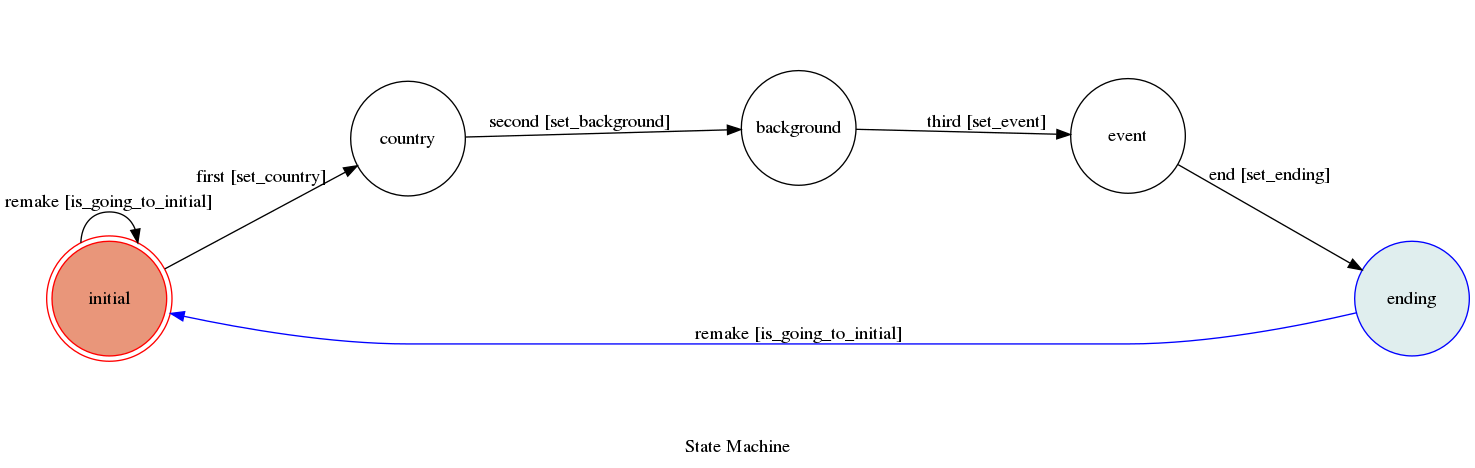
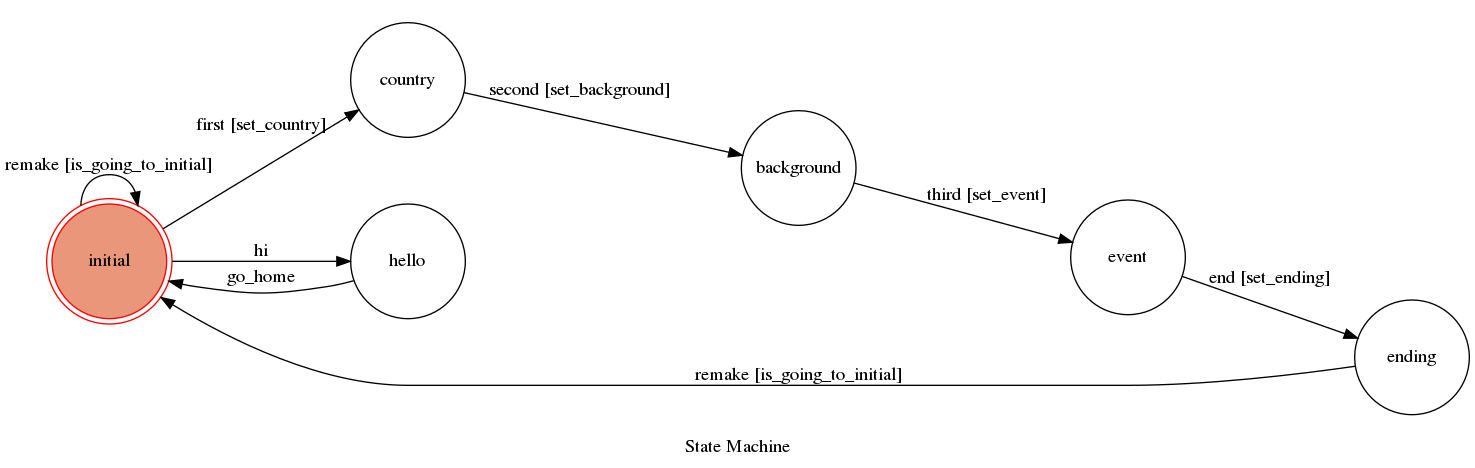
A little bug

diff --git a/fsm.py b/fsm.py
@@ -1,51 +1,81 @@
 from transitions.extensions import GraphMachine
 
-from utils import send_text_message, make_message
+from utils import send_text_message, make_message, send_image_url, send_button_message
 from life import country, background
-from life_data import Country, Background, Event, Work, Ending
+from life_data import Country, Background, Event, Ending
+from material import life_remake, people_img
 import time
+
 
 class TocMachine(GraphMachine):
     my_life = []#save the life data
     life_data = []#save the life parameter
+    #life data: [country, background, ending]
     def __init__(self, **machine_configs):
         self.machine = GraphMachine(
             model=self,
             **machine_configs
         )
-    #go to country state
     def set_country(self, event):
         sender_id = event['sender']['id']
-        if event.get("message"):
+        if event['message'].get("text"):
             text = event['message']['text']
             if text.lower() == 'start':
                 return True
             else:
+                send_image_url(sender_id, life_remake[0])
                 send_text_message(sender_id, "請輸入 start 開始你的人生>_<")
-        return False
+        else:
+            send_text_message(sender_id, "Sorry，只能接收文字，可以說嗨跟我打招呼")
+            return False
+   
+    #def say_hello(self, event):
+    #    sender_id = event['sender']['id']
+    #    if event['message'].get("text"):
+    #        text = event['message']['text']
+    #        if text == '嗨' or text == 'hi' or text == 'hello':
+    #            return True
+    #        else:
+    #            return False    
+    #    else:
+    #        return False        
 
     #go to background state
     def set_background(self, event):
-        if event.get("message"):
-            text = event['message']['text']
+        sender_id = event['sender']['id']
+        if event.get('postback'):
+            text = event['postback']['payload']
             return text.lower() == 'go'
-        return False
+        else:
+            send_text_message(sender_id, "Sorry，請按按鈕")
+            return False
 
     def is_going_to_initial(self, event):
-        if event.get("message"):
+        sender_id = event['sender']['id']
+        if event['message'].get("text"):
             text = event["message"]['text']
-            return text.lower() == 'remake'
-        return False
+            if text.lower() == 'remake':
+                return True
+            else:
+                send_text_message(sender_id, '想重刷的話就remake喔')
+                return False
+        else:
+            send_text_message(sender_id, '想重刷的話就remake喔')
+            return False
 
     def set_event(self, event):
-        if event.get("message"):
-            text = event['message']['text']
+        sender_id = event['sender']['id']
+        if event.get('postback'):
+            text = event['postback']['payload']
             return text.lower() == 'go'
-        return False
+        else:
+            send_text_message(sender_id, "Sorry，請按按鈕")
+            return False
     
     def set_ending(self, event):
-        if event.get("message"):
-            text = event['message']['text']
+        sender_id = event['sender']['id']
+        if event.get('postback'):
+            text = event['postback']['payload']
             if int(text):
                 e = int(text)
                 if e < len(Ending[self.life_data[0]][self.life_data[1]]):
@@ -55,18 +85,30 @@ class TocMachine(GraphMachine):
                     return False
             else:
                 return False
+        else:
+            send_text_message(sender_id, "Sorry，目前只能接收文字")
+            return False        
+    
+    def on_enter_hello(self, event):
+        sender_id = event['sender']['id']
+        send_text_message(sender_id, "你好阿，旅行者")
+        self.go_home(event)
+
 
     def on_enter_country(self, event):
-        print("your country is set")
+        #print("your country is set")
         sender_id = event['sender']['id']
         c = country()
         self.my_life.append(c)
         self.life_data.append(Country.index(c))
-        #print("country:")
-        #print(self.my_life[0])
+        buttons = [{
+            'type': 'postback',
+            'title': 'go',
+            'payload': 'go'
+        }]
         send_text_message(sender_id, "OH！ 你的首抽為\n" + self.my_life[0] + "人")
-        send_text_message(sender_id, "輸入 go 看看你生在什麼家庭吧")
-        
+        #send_text_message(sender_id, "輸入 go 看看你生在什麼家庭吧")
+        send_button_message(sender_id, '按下go，進入下一階段', buttons)
 
 #    def on_exit_state1(self):
 #        print('Leaving state1')
@@ -74,14 +116,17 @@ class TocMachine(GraphMachine):
     def on_enter_background(self, event):
         print("your background is set")        
         sender_id = event['sender']['id']
-
-        b = background(self.life_data[0])
-        #print('life data[0] = \n')
-        #print(self.life_data[0])
+        b = background(self.life_data[0])#random
         self.my_life.append(b)
         self.life_data.append(Background[self.life_data[0]].index(b))
+        buttons = [{
+            'type': 'postback',
+            'title': 'go',
+            'payload': 'go'
+        }]
         send_text_message(sender_id, "家庭背景：\n" + self.my_life[1])
-        send_text_message(sender_id, "嗯嗯，該說是幸運還是不幸呢\n輸入 go 進入下一階段")
+        send_image_url(sender_id, people_img[Background[self.life_data[0]].index(b)])
+        send_button_message(sender_id, '按下go，進入下一階段', buttons)
 
 #    def on_exit_state2(self):
 #        print('Leaving state2')
@@ -89,23 +134,68 @@ class TocMachine(GraphMachine):
     def on_enter_event(self, event):
         print("event occur!")
         sender_id = event['sender']['id']
-        #print('life data[1] = \n')
-        #print(self.life_data[1])
-        send_text_message(sender_id, Event[self.life_data[0]][self.life_data[1]])
-        
+        buttons = []
+        if self.life_data[1] == 0:
+            buttons = [{
+            'type': 'postback',
+            'title': '繼承家業',
+            'payload': '0'
+            },
+            {
+                'type': 'postback',
+                'title': '工作看看',
+                'payload': '1'
+            },
+            {
+                'type': 'postback',
+                'title': '創業',
+                'payload': '2'
+            }]
+        elif self.life_data[1] == 1:
+            buttons = [{
+            'type': 'postback',
+            'title': '找工作',
+            'payload': '0'
+            },
+            {
+                'type': 'postback',
+                'title': '啃老',
+                'payload': '1'
+            },
+            {
+                'type': 'postback',
+                'title': '考公職',
+                'payload': '2'
+            }]
+        elif self.life_data[1] == 2:
+            buttons = [{
+            'type': 'postback',
+            'title': '找工作',
+            'payload': '0'
+            },
+            {
+                'type': 'postback',
+                'title': '跳陣頭',
+                'payload': '1'
+            },
+            {
+                'type': 'postback',
+                'title': '簽下去',
+                'payload': '2'
+            }]    
+        #send_text_message(sender_id, Event[self.life_data[0]][self.life_data[1]])
+        send_button_message(sender_id, Event[self.life_data[0]][self.life_data[1]], buttons)
 
     def on_enter_initial(self, event):
-        print("I'm going initial")
         self.life_data.clear()
         self.my_life.clear()
         sender_id = event['sender']['id']
         send_text_message(sender_id, "想重刷是吧？那就輸入 start 重刷你的人生首抽")
 
     def on_enter_ending(self, event):
-        print('is ending!') 
         sender_id = event['sender']['id']
         send_text_message(sender_id, Ending[self.life_data[0]][self.life_data[1]][self.life_data[2]]) 
-        send_text_message(sender_id, '想重刷的話就remake喔')      
+        #send_text_message(sender_id, '想重刷的話就remake喔')
 
 #    def on_exit_user(self):
 #        print('Leaving user')

diff --git a/life_data.py b/life_data.py
@@ -4,12 +4,18 @@ Background = [['老爸是大老闆，上下學專車接送，家裡有3個傭人
             '沒什麼好說，總之是個還過得去的一般家庭', 
             '不知道下一餐在哪裡，多災多難的貧困家庭']
 ]
-Work = ['inherit', 'work', 'lazy', 'create', 'work', 'lazy', 'exam', 'work', 'exam', 'bad']
-Event = [['光陰似箭，歲月如梭，身為富二代的你成年了，也到了決定人生方向的時候了\n\n自己決定吧\n1：繼承家業\n2：出去工作\n3：在家耍廢\n4：創業',
-        '時間過得真快，一眨眼就成年了，該替自己的未來打算了\n\n決定吧\n1：找工作\n2：啃老\n3：考公職',
-        '雖然以前常常餓肚子，但還是順利長大了，沒爸可靠的你下一步要怎走呢？\n\n想清楚吧\n1：找工作\n2：跳陣頭'],
+Event = [['光陰似箭，歲月如梭，身為富二代的你成年了，也到了決定人生方向的時候了\n\n自己決定吧',
+        '時間過得真快，一眨眼就成年了，該替自己的未來打算了\n\n決定吧',
+        '雖然以前常常餓肚子，但還是順利長大了，沒爸可靠的你下一步要怎走呢？\n想清楚吧'],
 ]
-Ending = [[['ending0', 'ending1', 'ending2', 'ending3'], ['ending4', 'ending5', 'ending6'], ['ending7', 'ending8','ending9']]
+Ending = [[['ending0', 
+        '剛開始真的很痛苦，以前的高級消費娛樂都不能做了，但回想起自己過去的人生，其實也算渾渾噩噩，於是開始利用時間充實自己，認識許多業界成功的人士，參與了許多課程，最後靠著3年的100萬積蓄，再加上老爸給的4900萬，買下台北精華區的人生第一棟房子\n『有夢最美，逐夢踏實』', 
+        'ending2'], 
+        ['ending3', 
+        '『啃老就要慢慢輕輕的啃才能長久』by 國動\n豪爽喔\n每天打game尻尻，時間一下就消磨掉了，吃家裡剩的，當家裡的廚餘桶，偶爾幫忙跑腿（找的錢還可以當零用錢），阿...斯...\n再...再讓我啃兩年...', 
+        'ending5'], 
+        ['ending6', 'ending7',
+        '『人生可以黑白，但千萬不能迷彩』，幹你娘如果回到四年前我一定把當初要簽下去的我鼻樑打斷，這四年賠了自由、賠了光陰、賠了身體、賠了腦袋\n哀，寧做乞兒不做狗兒，早知如此去當個保全也好']]
         ]
 
 ######################################################################

diff --git a/utils.py b/utils.py
@@ -22,12 +22,43 @@ def send_text_message(id, text):
 def make_message():
         return 
 
-
-
-"""
 def send_image_url(id, img_url):
-    pass
-
+    url = "{0}/me/messages?access_token={1}".format(GRAPH_URL, ACCESS_TOKEN)
+    data = {
+        "recipient": {
+            "id": id
+        },
+        "message": {
+            "attachment": {
+            "type":"image", 
+            "payload": {
+                "url": img_url,
+                "is_reusable": True
+                }
+            }
+        }
+    }
+    res = requests.post(url, json=data)
+    if res.status_code != 200:
+        print("Unable to send image message: " + res.text)
+    
 def send_button_message(id, text, buttons):
-    pass
-"""
+    url = "{0}/me/messages?access_token={1}".format(GRAPH_URL, ACCESS_TOKEN)
+    payload = {
+        "recipient": {"id": id},
+        "message":{
+            "attachment":{
+                "type": "template",
+                "payload": {
+                    "template_type":"button",
+                    "text": text,
+                    "buttons": buttons
+                }
+            }
+        }
+    }
+    res = requests.post(url, json=payload)
+    if res.status_code != 200:
+        print("Unable to send message: " + res.text)
+    
+

diff --git a/app.py b/app.py
@@ -1,5 +1,4 @@
 from bottle import route, run, request, abort, static_file
-
 from fsm import TocMachine
 
 
@@ -10,9 +9,21 @@ machine = TocMachine(
         'country',
         'background',
         'event',
-        'ending'
+        'ending',
+        'hello'
     ],
     transitions=[
+        {
+            'trigger': 'hi',
+            'source': 'initial',
+            'dest': 'hello',
+            #'conditions': 'say_hello'
+        },
+        {
+            'trigger': 'go_home',
+            'source': 'hello',
+            'dest': 'initial'
+        },
         {
             'trigger': 'first',
             'source': 'initial',
@@ -74,7 +85,10 @@ def webhook_handler():
         event = body['entry'][0]['messaging'][0]
         print('current state:')
         print(machine.state)
-        
+        if event.get('message') and event['message'].get('text'):
+            text = event['message']['text']
+            if text == '嗨' or text == 'hi' or text == 'hello':
+                machine.hi(event)
         if machine.state == 'initial':
             machine.first(event)
         elif machine.state == 'country':

diff --git a/life.py b/life.py
@@ -1,4 +1,4 @@
-from life_data import Country, Background, Event, Work, Ending
+from life_data import Country, Background, Event, Ending
 import random
 
 #country = random.choice(list(Life.keys()))

diff --git a/material.py b/material.py
@@ -1,0 +1,2 @@
+life_remake = ['https://i.imgur.com/dXVbGKM.jpg']
+people_img = ['https://i.imgur.com/rkcszG3.jpg', 'https://i.imgur.com/ziDkFqx.png', 'https://i.imgur.com/YJfqnwl.jpg']
